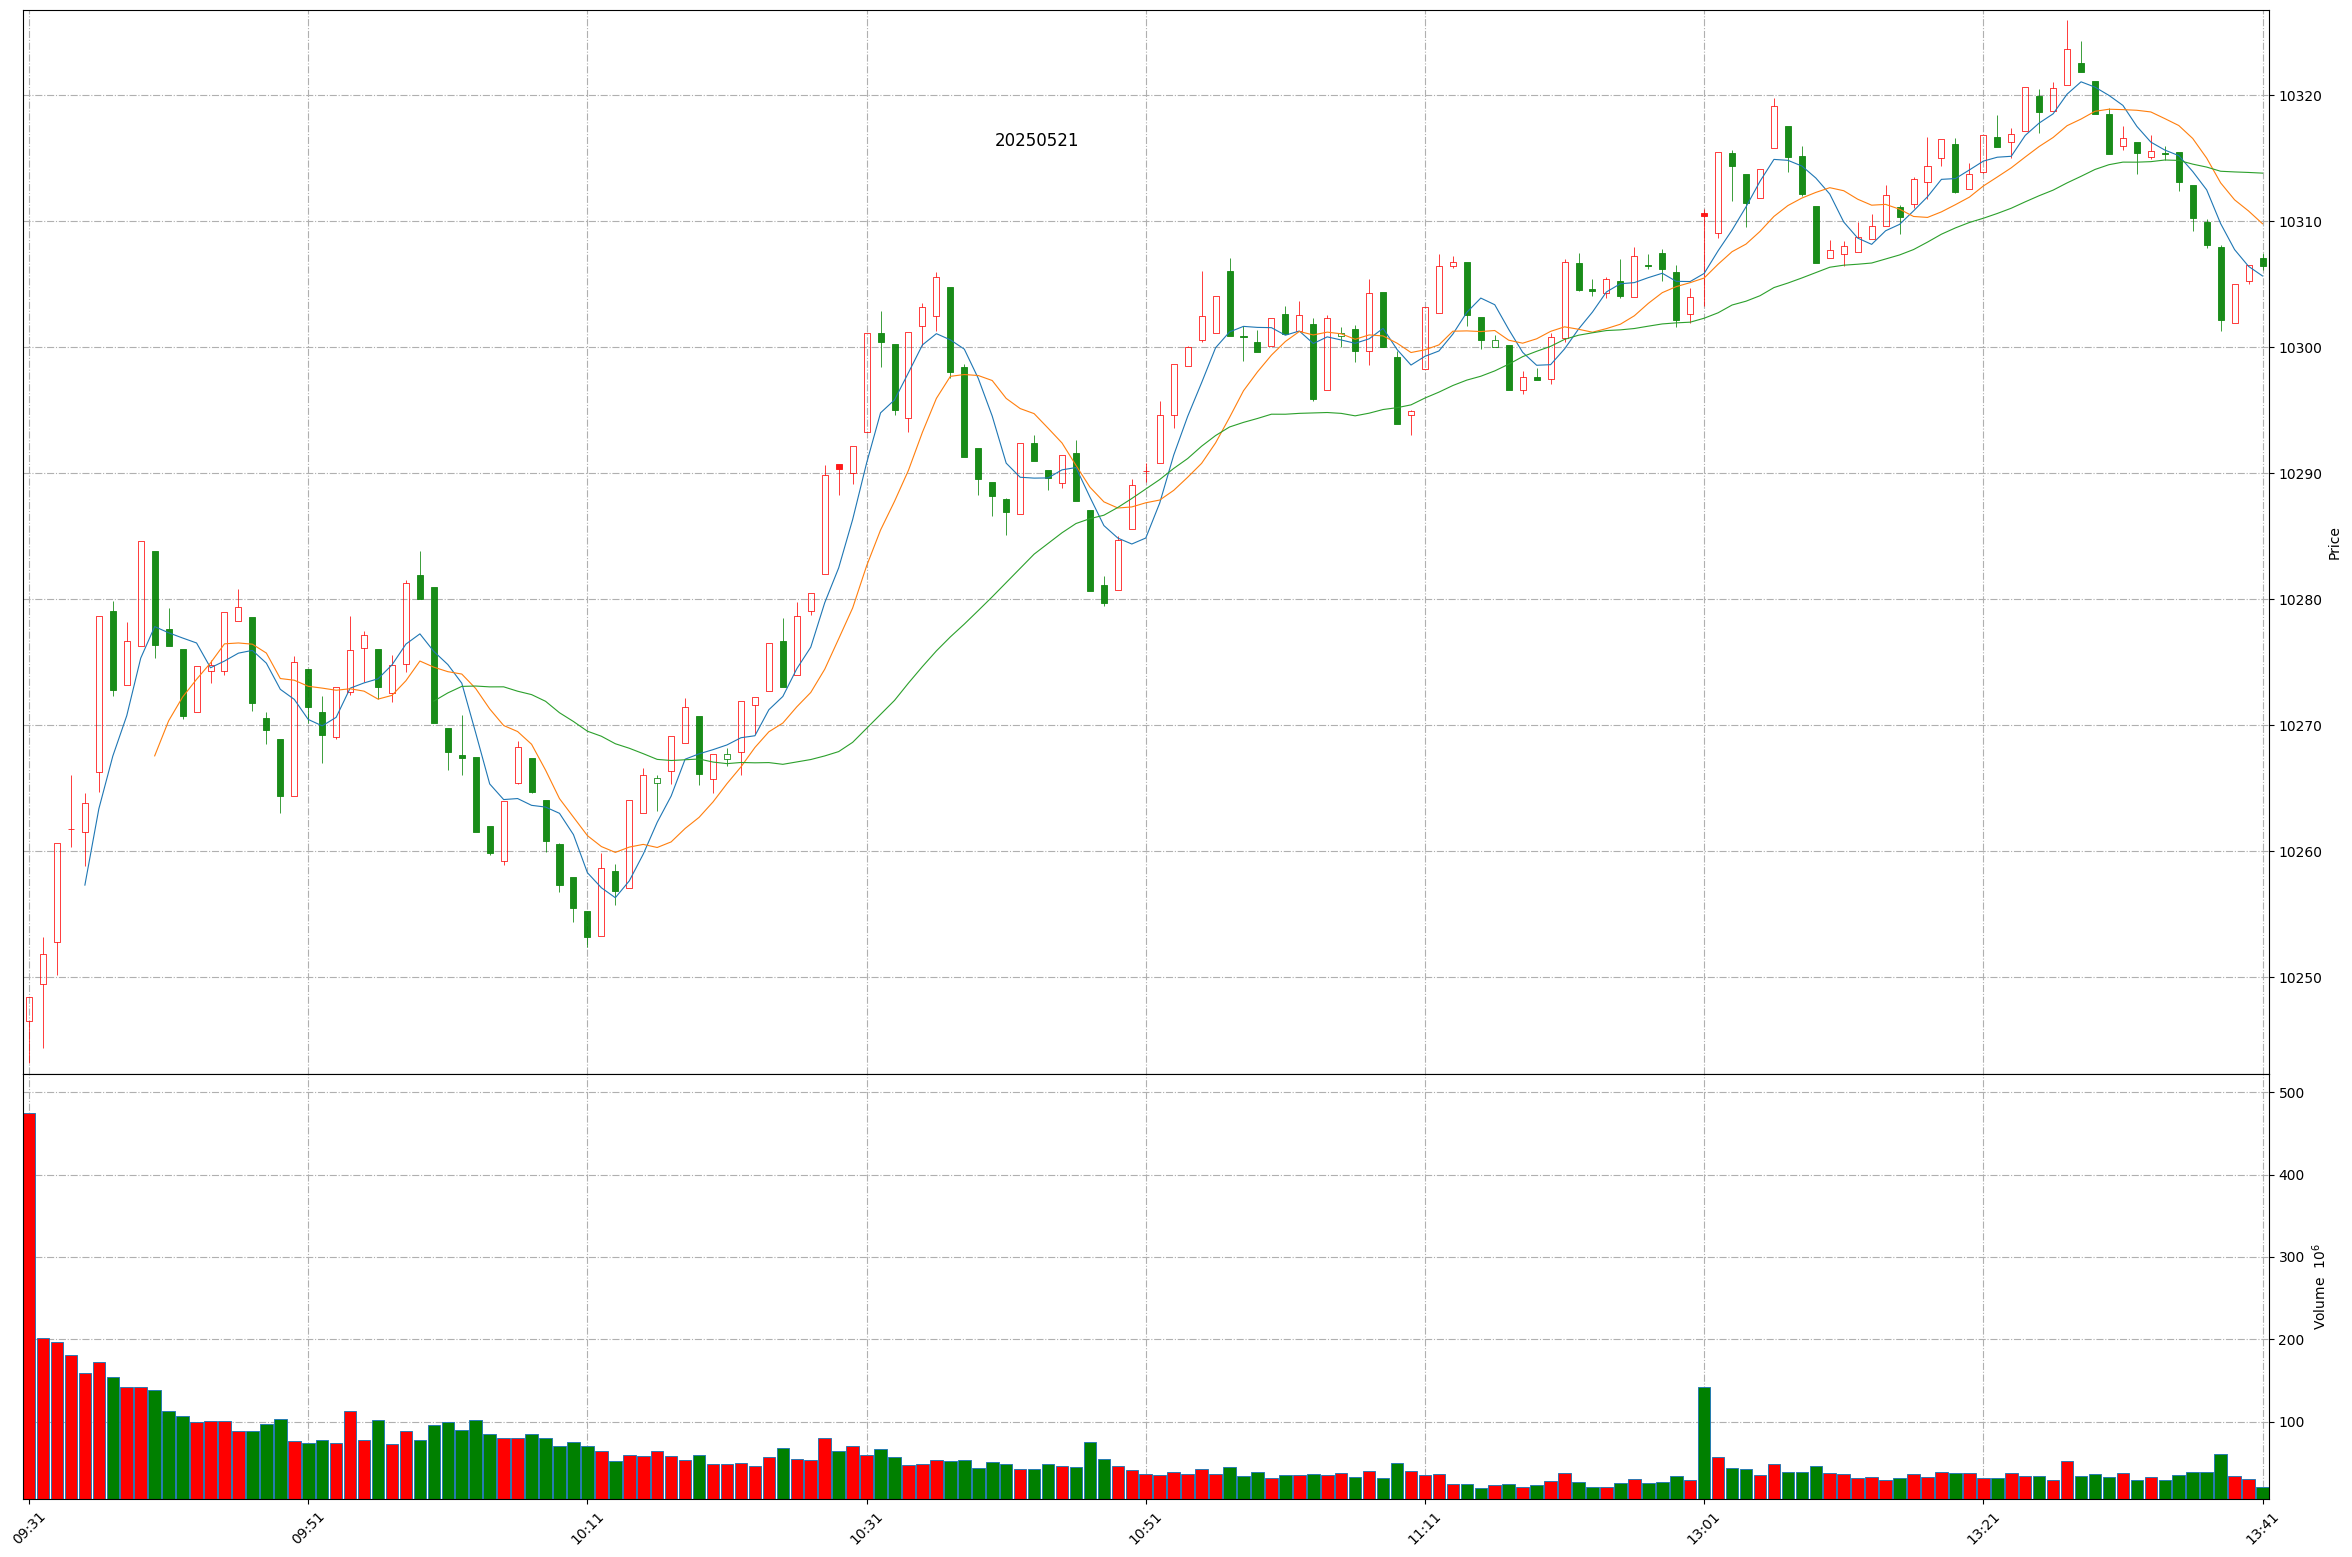
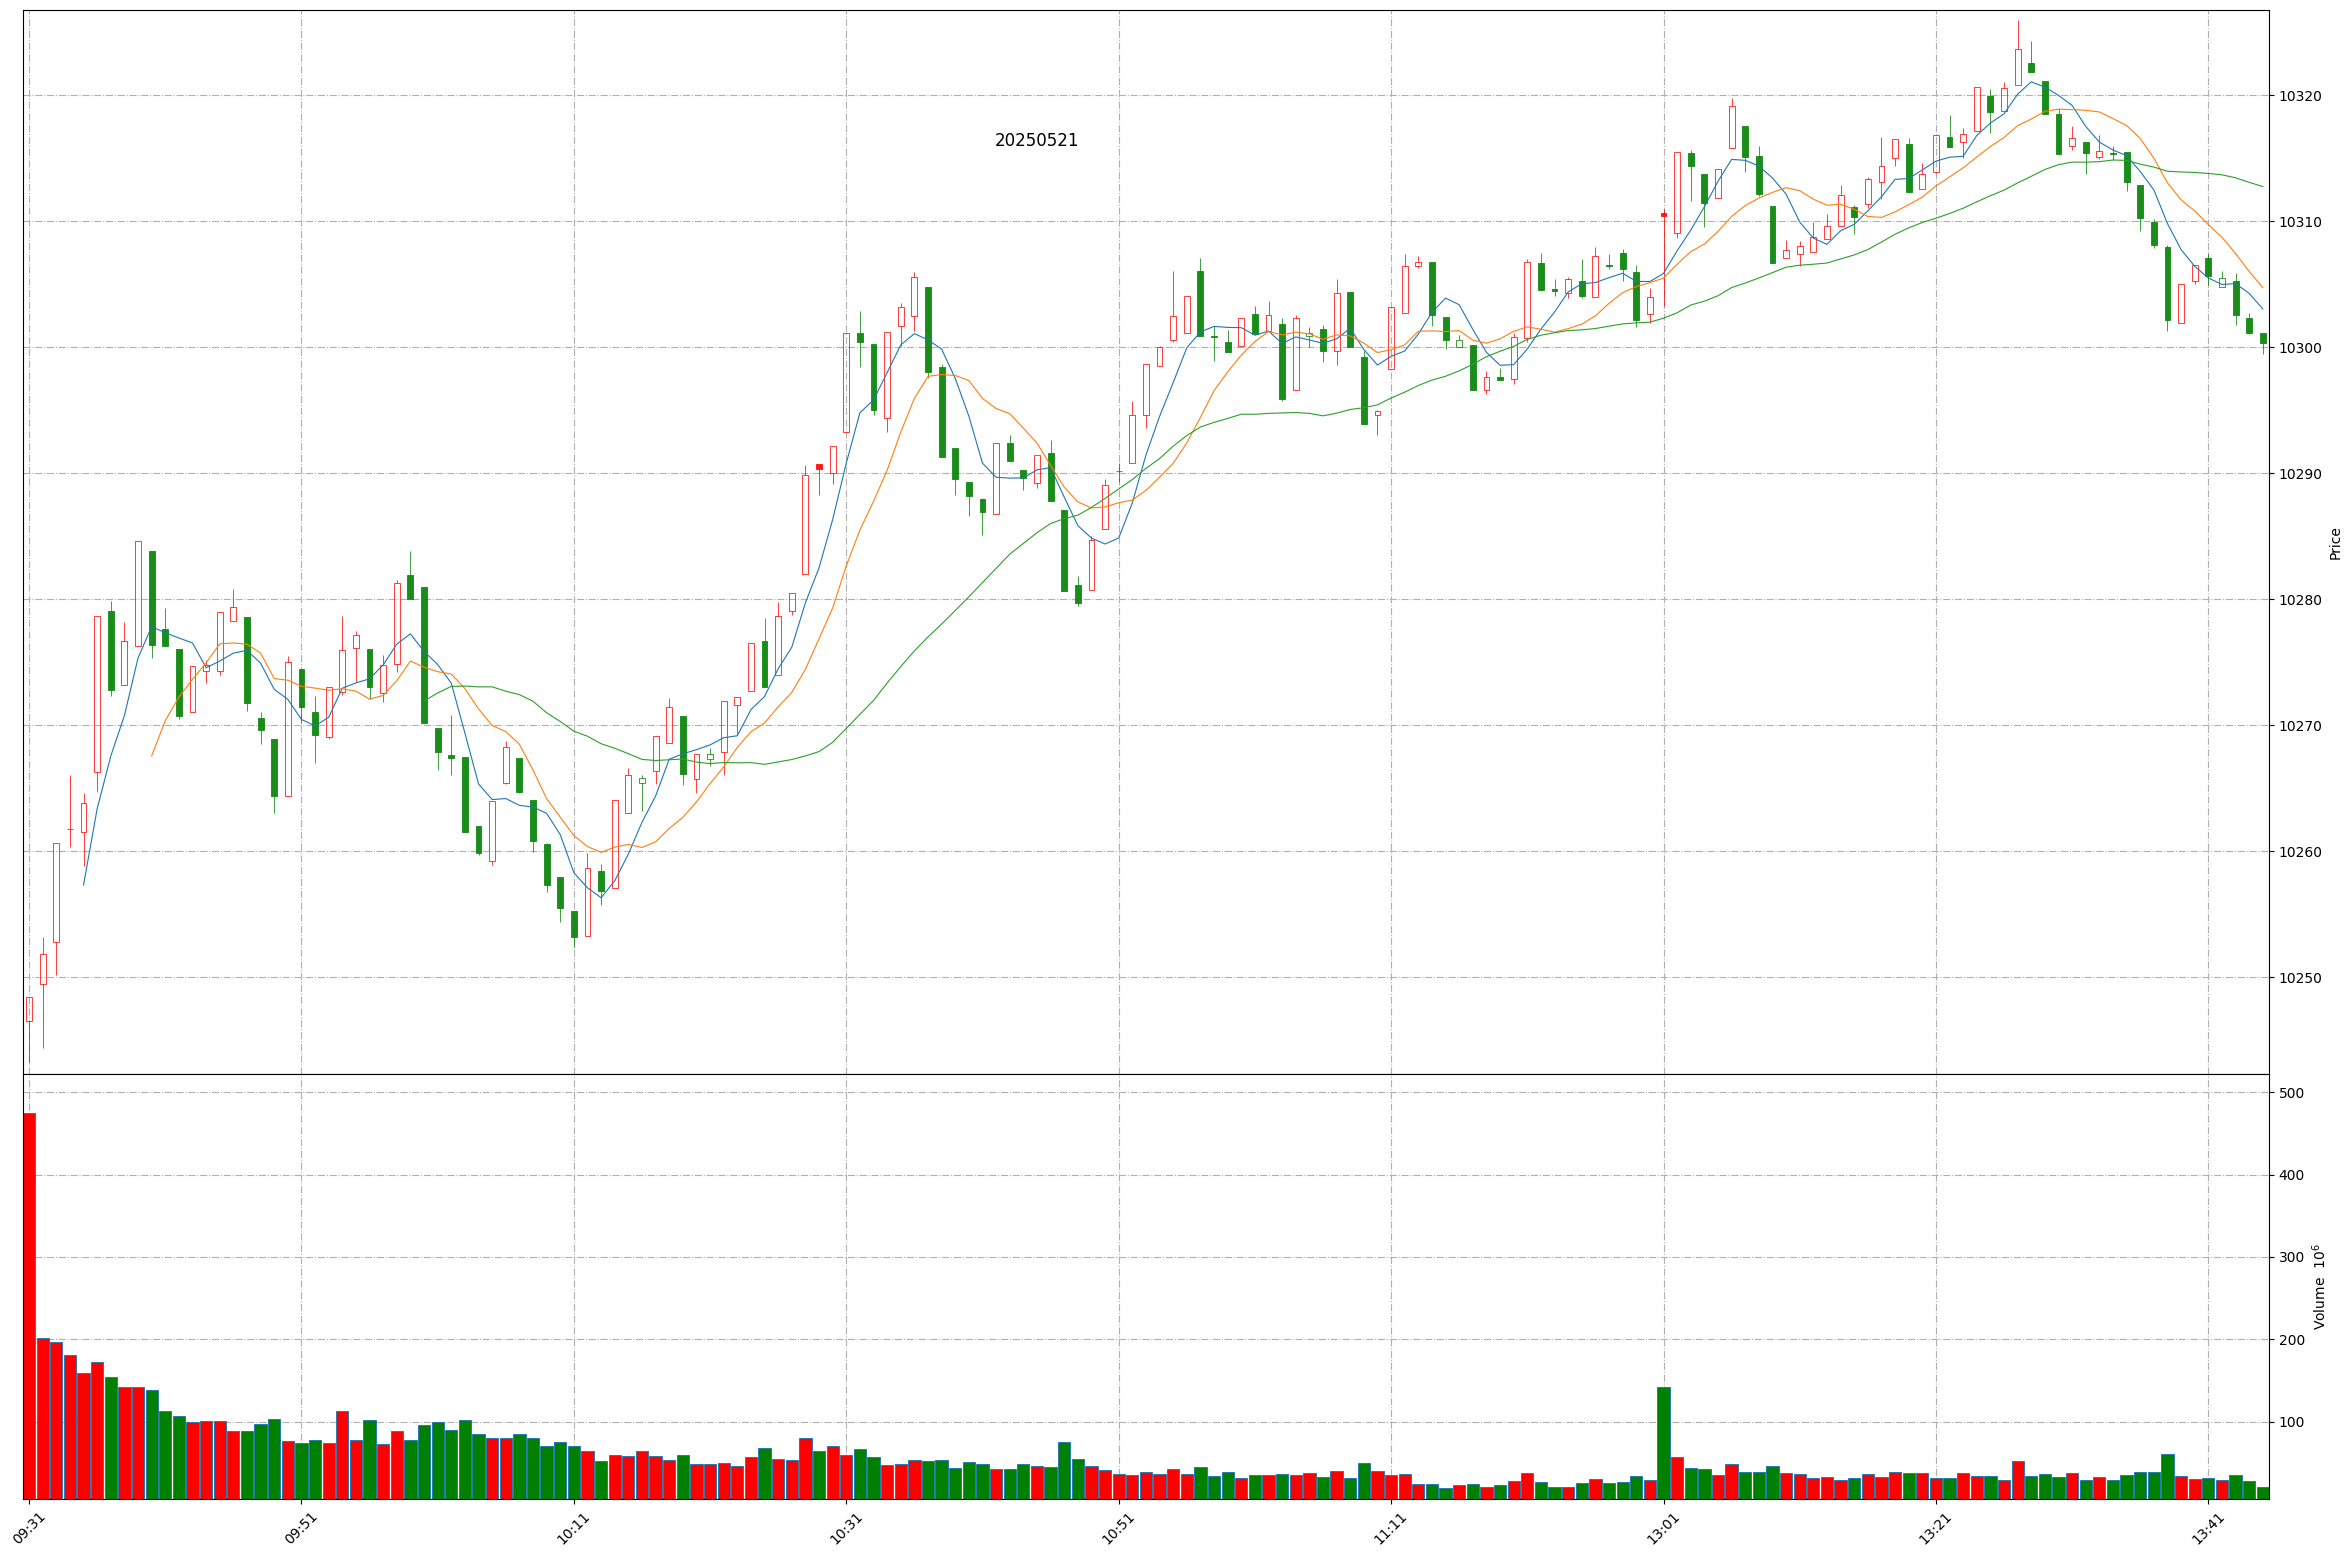
Github action update at 2025-05-21 13:44:50.

Changed region(s): [[0.3414, 0.0308, 0.9622, 0.4008], [0.031, 0.8632, 0.9622, 0.9865], [0.031, 0.3699, 0.3724, 0.5857]]

diff --git a/README.md b/README.md
@@ -1,11 +1,11 @@
 
 # Daily-A-share-market-quotes 每日 A 股指数（5min 更新）- 20250521
 
-### 上证指数 20250521 13:40
+### 上证指数 20250521 13:44
 ![](./fig/2025/5/20250521-sh000001.png)
 
-### 深证成指 20250521 13:40
+### 深证成指 20250521 13:44
 ![](./fig/2025/5/20250521-sz399001.png)
 
-### 北证50 20250521 13:40
+### 北证50 20250521 13:44
 ![](./fig/2025/5/20250521-bj899050.png)
